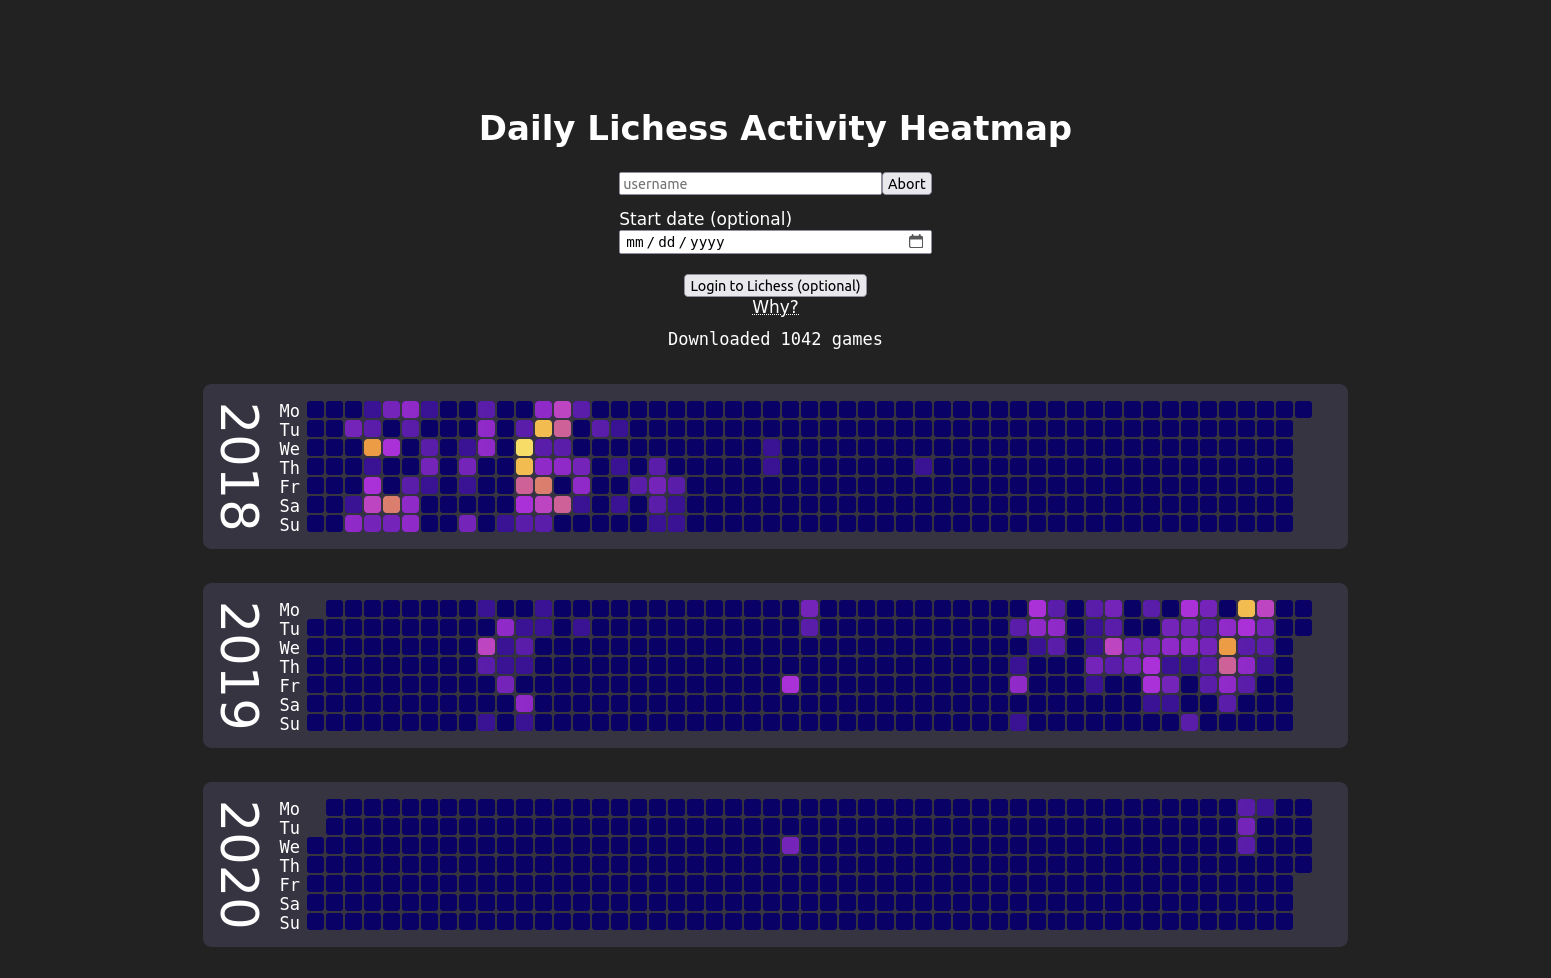
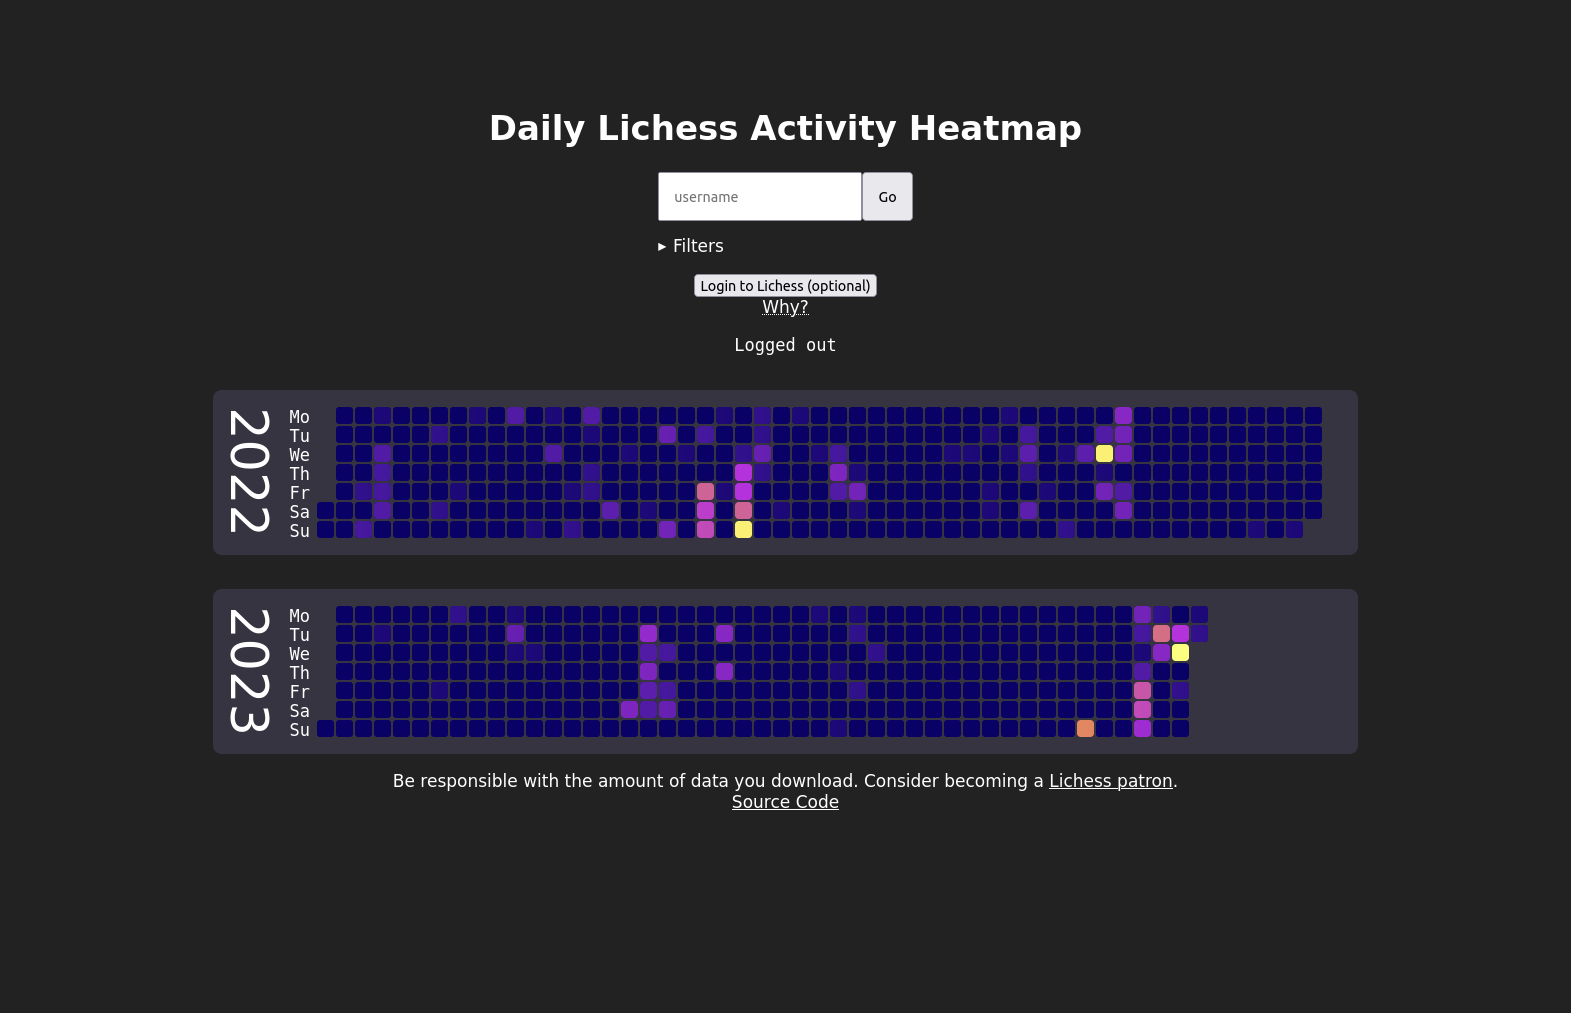
Optimize style for mobile
Scrollbars with shading and full width

diff --git a/index.html b/index.html
@@ -17,13 +17,17 @@
             color: #fff;
             background-color: #222;
             font-family: sans;
-            margin: 5em;
+            margin-top: 5em;
             display: flex;
             flex-direction: column;
             align-items: center;
 
             a {
                 color: white;
+            }
+
+            h1 {
+                text-align: center;
             }
         }
 
@@ -54,6 +58,10 @@
         #calendar {
             display: flex;
             flex-direction: column;
+            overflow-x: auto;
+            max-width: 100%;
+            scroll-behavior: smooth;
+            mask-image: linear-gradient(to right, transparent 0%, black 1em, black calc(100% - 1em), transparent 100%);
 
             .year {
                 --day-size: 1em;
